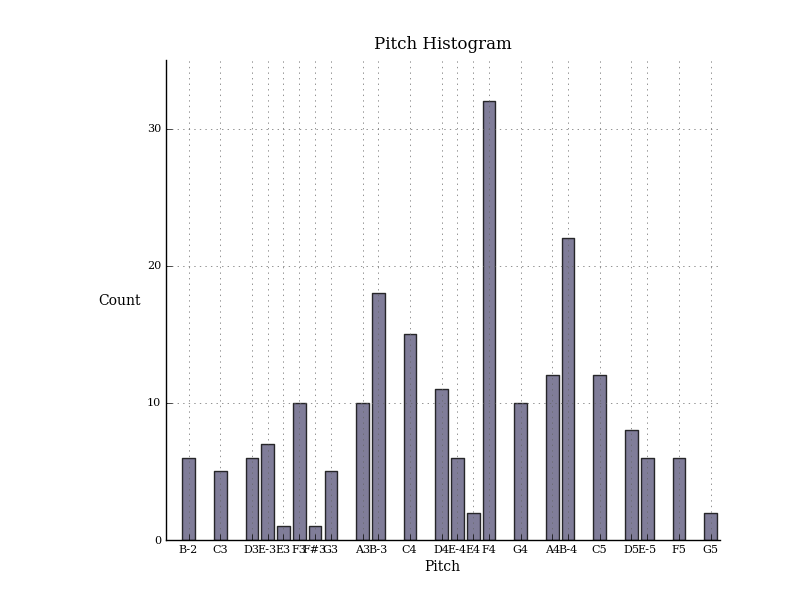
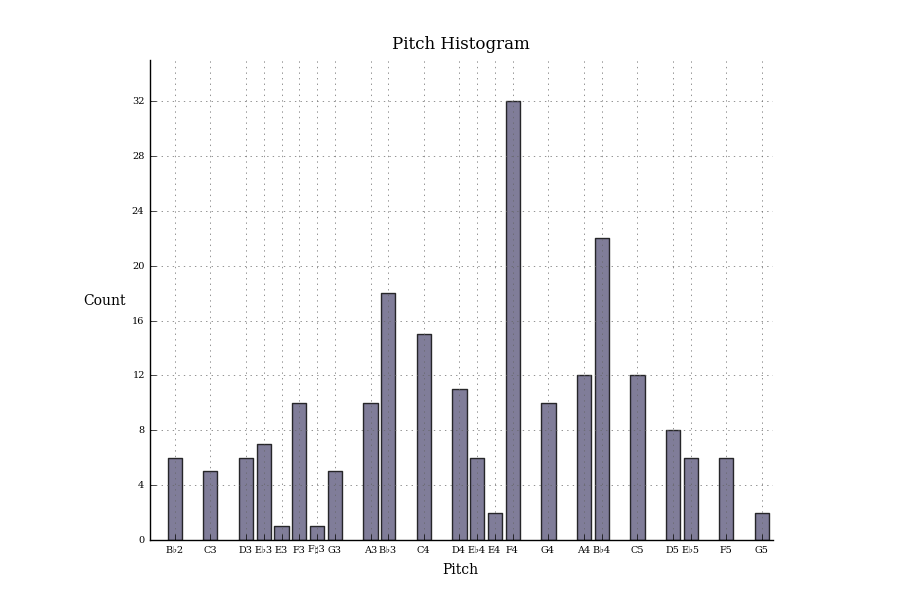
updated documentation graph/plot images

Changed region(s): [[0.0938, 0.12, 0.9062, 0.96], [0.4375, 0.06, 0.6562, 0.09]]

diff --git a/music21/graph.py b/music21/graph.py
@@ -2909,20 +2909,15 @@ class TestExternal(unittest.TestCase):
             [(x, random.choice(range(30))) for x in range(50)]),
         (Graph3DPolygonBars, data3DPolygonBars),
         (GraphColorGridLegend, 
-        [('Major', [('C#', '#00AA55'), ('D-', '#5600FF'), ('G#', '#2B00FF')]),
-         ('Minor', [('C#', '#004600'), ('D-', '#00009b'), ('G#', '#00009B')]),]
+        [('Major', [('C', '#00AA55'), ('D', '#5600FF'), ('G', '#2B00FF')]),
+         ('Minor', [('C', '#004600'), ('D', '#00009b'), ('G', '#00009B')]),]
         ),
-        (GraphColorGrid, [['#55FF00', '#9b0000', '#009b00'], 
+        (GraphColorGrid, [['#8968CD', '#96CDCD', '#CD4F39'], 
                 ['#FFD600', '#FF5600'], 
-                ['#201a2b', '#8f73bf', '#a080d5', '#403355', '#999999'],
+                ['#201a2b', '#8f73bf', '#a080d5', '#6495ED', '#FF83FA'],
                ]
         ),
 
-
-        ]
-
-        graphClasses = [
-        
         ]
 
         for graphClassName, data in graphClasses:
@@ -2973,16 +2968,13 @@ class TestExternal(unittest.TestCase):
         (PlotScatterWeightedPitchSpaceQuarterLength, None, None), (PlotScatterWeightedPitchClassQuarterLength, None, None),
         # 3d graphs
         (Plot3DBarsPitchSpaceQuarterLength, testFiles.mozartTrioK581Excerpt, 'Mozart Trio K581 Excerpt'),
-        ]
-
-        sDefault = corpus.parseWork('bach/bwv57.8')
-
-        plotClasses = [
 
         (PlotWindowedKrumhanslSchmuckler, corpus.getWork('bach/bwv66.6.xml'), 'Bach BWV 66.6'),
         (PlotWindowedSadoianAmbitus, corpus.getWork('bach/bwv66.6.xml'), 'Bach BWV 66.6'),
 
         ]
+
+        sDefault = corpus.parseWork('bach/bwv57.8')
 
         for plotClassName, work, titleStr in plotClasses:
             if work == None:
@@ -3228,10 +3220,10 @@ if __name__ == "__main__":
 
         #a.writeGraphColorGrid()
         #a.writeAllGraphs()
-        #a.writeAllPlots()
+        a.writeAllPlots()
 
 
-        b.testColorGridLegend('write')
+        #b.testColorGridLegend('write')
         #b.testPlotWindowed('write')
 
         #a.writeAllPlots()
